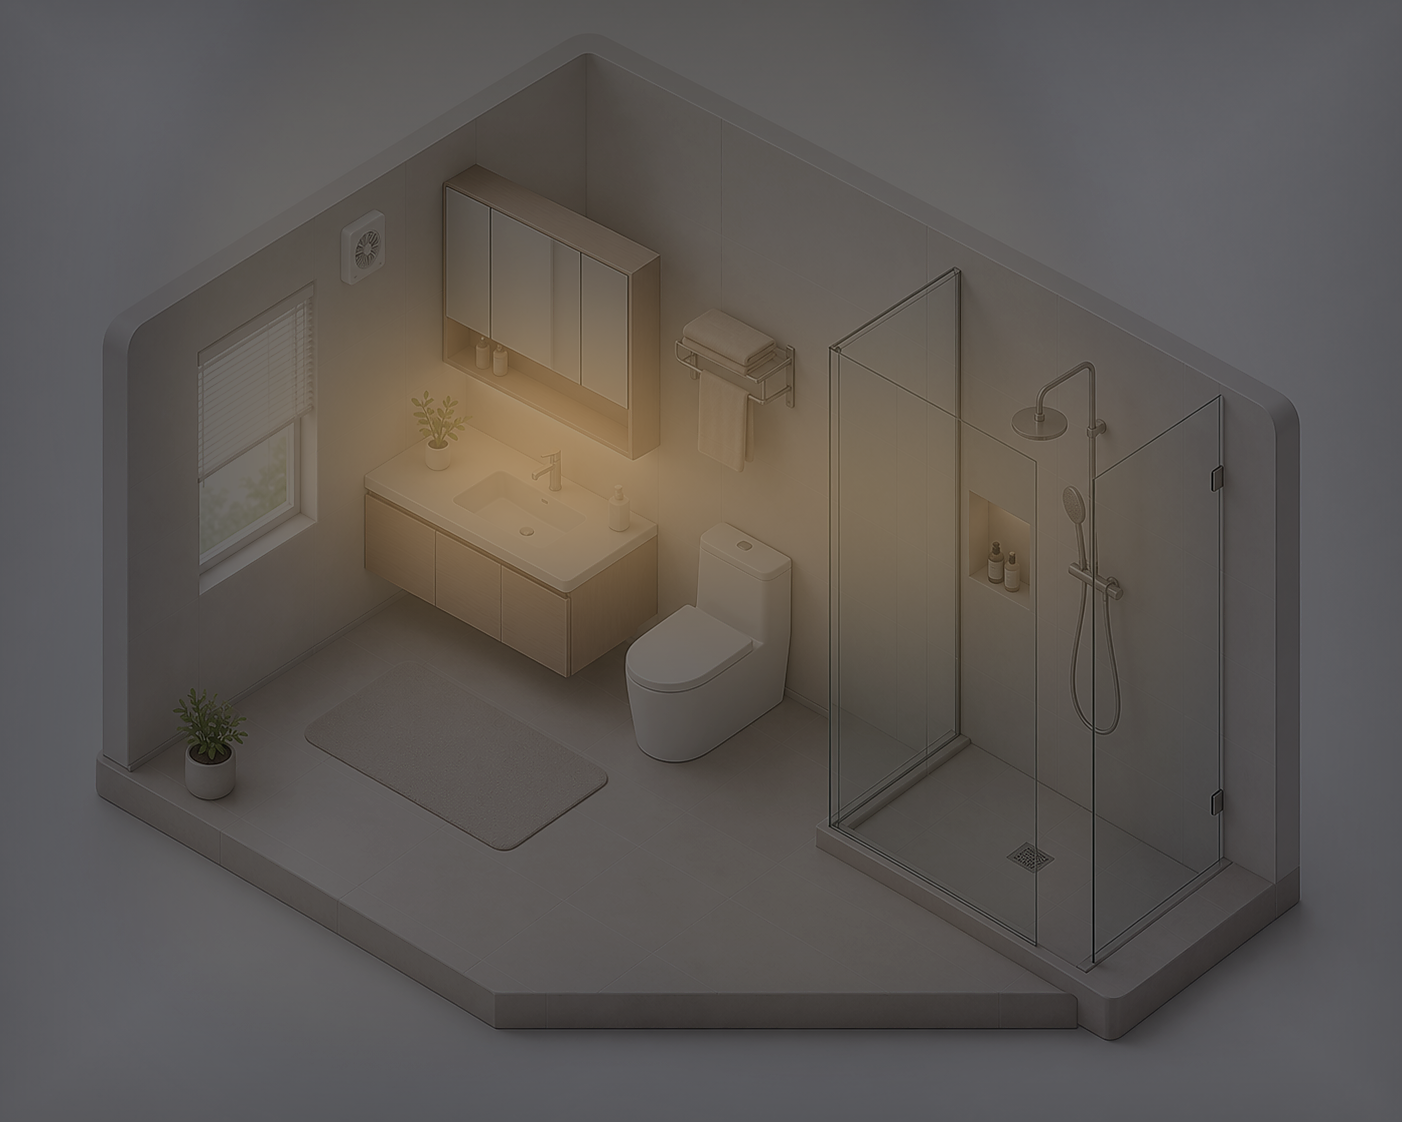
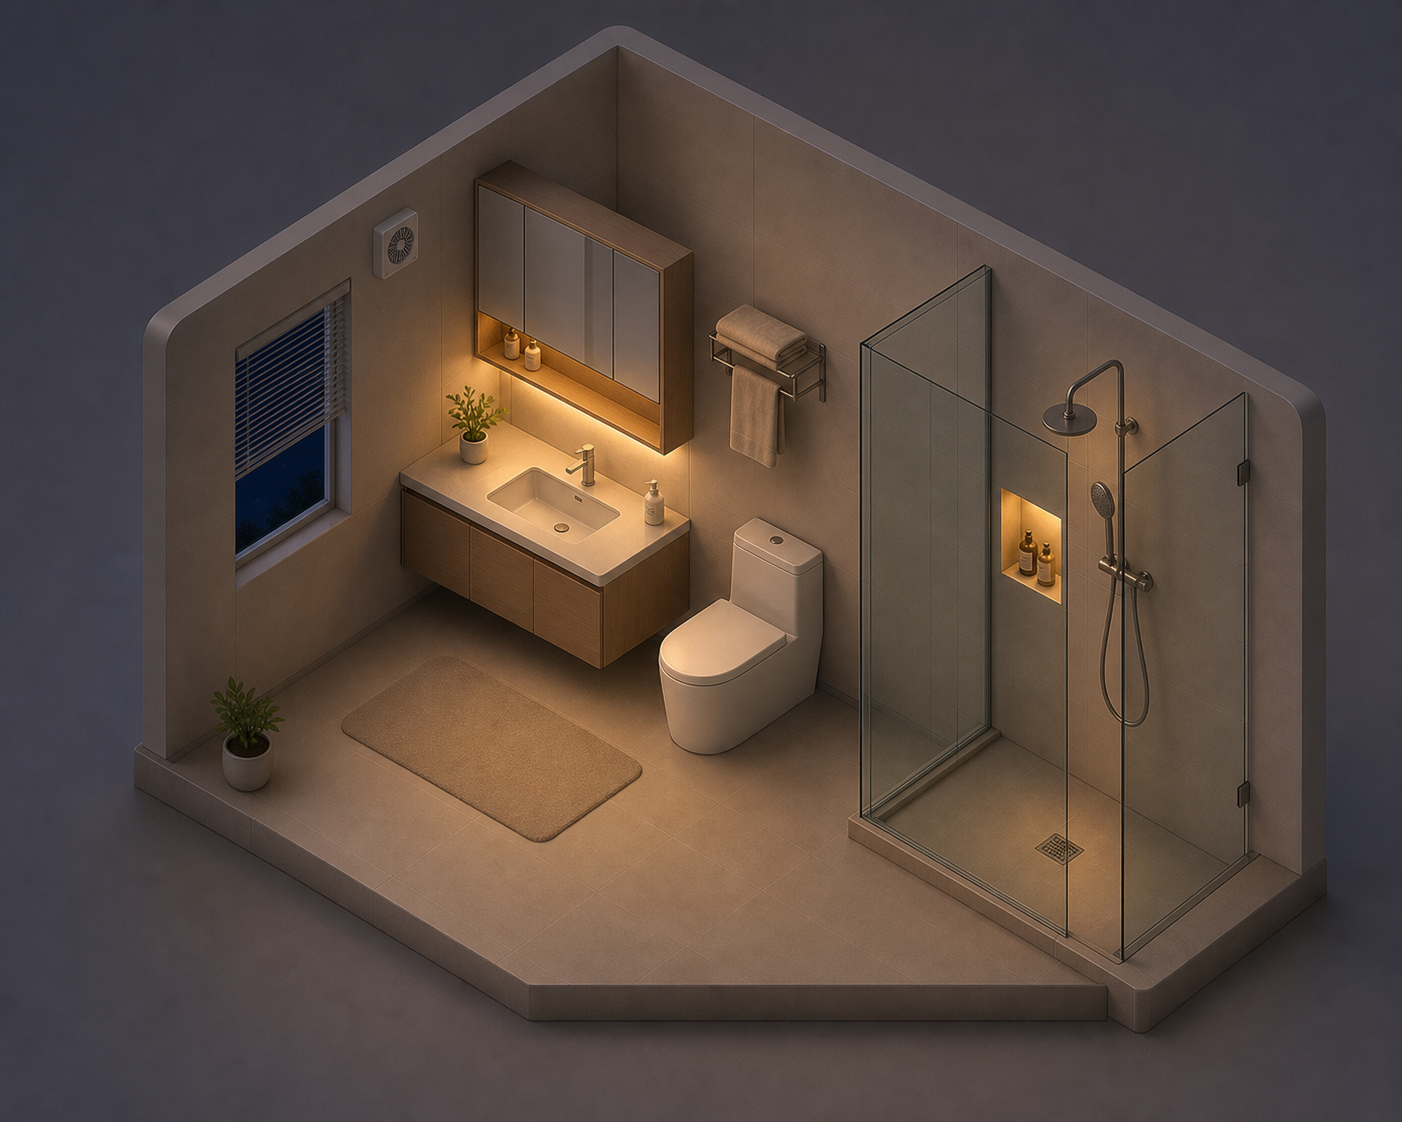
添加了新的2.5D图像

diff --git a/docs/smart-home-ui-asset-prompt.md b/docs/smart-home-ui-asset-prompt.md
@@ -1,0 +1,238 @@
+# Smart Home UI Asset Prompt
+
+This document is the shared visual prompt specification for SmartHome room and device images.
+Use it as the base prompt for living room, bedroom, kitchen, bathroom, balcony, curtains, and device assets.
+
+## Global Style
+
+Tencent Marvis style, minimalist, abstract, 2.5D isometric smart home interior, modern smart home, Scandinavian minimalism, rounded geometry, low-saturation warm white palette, soft wood material, clean negative space, UI asset, app homepage asset, product design illustration rather than architectural rendering, soft skeuomorphism, Apple Human Interface inspired, no people, no text, no labels, no logo, pure background, suitable for overlaying interactive hotspots.
+
+English core prompt:
+
+```text
+Minimal abstract isometric smart home interior, Tencent Marvis style, Apple Human Interface inspired, soft beige palette, rounded geometry, clean Scandinavian furniture, orthographic 45-degree isometric camera, simplified 3D shapes, low-poly but premium, soft ambient lighting, smooth matte materials, UI illustration, high-end smart home dashboard asset, consistent room layout, no people, no text, no labels, no logo, no decorations, no photorealism, designed for interactive smart home application.
+```
+
+## Fixed Camera
+
+```text
+45-degree isometric view.
+Orthographic camera.
+Fixed camera.
+Fixed focal length.
+Fixed layout.
+All variants must keep exactly the same image composition.
+Only time of day and lighting are allowed to change.
+Do not move, add, remove, resize, rotate, or restyle any furniture.
+```
+
+## Rendering Requirements
+
+```text
+Ultra clean.
+Minimal.
+Modern.
+Soft shadow.
+Soft global illumination.
+Smooth surface.
+Rounded edge.
+Low contrast.
+Soft ambient occlusion.
+Simple material.
+No texture noise.
+No photorealistic detail.
+High-end app UI illustration.
+3D icon style.
+Premium smart home dashboard.
+High resolution.
+```
+
+## Room Layouts
+
+Living room:
+
+```text
+Open modern living room.
+L-shaped sofa.
+Coffee table.
+TV.
+TV cabinet.
+Wall-mounted air conditioner.
+Window.
+Double-layer curtains.
+Air purifier.
+Robot vacuum.
+Green plants.
+Side cabinet.
+Floor plant.
+Rug.
+Keep all furniture in fixed positions.
+```
+
+Bedroom:
+
+```text
+Modern minimalist bedroom.
+Double bed.
+Bedside table.
+Wardrobe.
+Wall-mounted air conditioner.
+Large window.
+Double-layer curtains.
+Robot vacuum.
+Side cabinet.
+Green plants.
+Bedside lamp.
+Hidden LED light strip.
+Rug.
+Keep all furniture in fixed positions.
+```
+
+Kitchen:
+
+```text
+Modern minimalist kitchen.
+L-shaped counter.
+Sink.
+Stove.
+Range hood.
+Refrigerator.
+Kitchen island or small dining island.
+Simple dining stools.
+Small green plants.
+Soft wood cabinet fronts.
+Keep all furniture and appliances in fixed positions.
+```
+
+Bathroom:
+
+```text
+Modern minimalist bathroom.
+Vanity.
+Mirror cabinet.
+Toilet.
+Glass shower enclosure.
+Shower head.
+Small window.
+Bath mat.
+Small green plant.
+Rounded beige and soft wood materials.
+Keep all furniture and fixtures in fixed positions.
+```
+
+Balcony:
+
+```text
+Modern minimalist balcony laundry area.
+Washer.
+Storage cabinet.
+Small folding table or lounge chair.
+Indoor plants.
+Large window or open balcony glazing.
+Soft wood cabinet.
+Clean floor.
+Keep all furniture and appliances in fixed positions.
+```
+
+## Lighting States
+
+Day OFF:
+
+```text
+Daytime outside the window.
+Natural sunlight.
+All indoor lights off.
+Bedside lamps off.
+LED light strips off.
+All warm lights off.
+Only natural daylight.
+Overall cool white.
+Soft shadows.
+```
+
+Day ON:
+
+```text
+Daytime outside the window.
+Natural sunlight plus indoor lights on.
+Bedside lamps on.
+LED light strips on.
+Warm yellow indoor lighting.
+Mixed natural light and artificial light.
+Overall warmer than Day OFF.
+Keep all furniture positions unchanged.
+```
+
+Night OFF:
+
+```text
+Night scene outside the window.
+Deep blue night sky.
+All indoor lights off.
+Bedside lamps off.
+LED light strips off.
+Only very weak moonlight.
+Overall blue gray.
+Do not make it completely black.
+Furniture must remain clearly visible.
+Keep all furniture positions unchanged.
+```
+
+Night ON:
+
+```text
+Night scene outside the window.
+Warm yellow indoor lighting.
+Bedside lamps on where present.
+Hidden LED light strips on where present.
+Soft ambient light.
+Comfortable home atmosphere.
+Do not make it too bright.
+Keep the night feeling.
+Keep all furniture positions unchanged.
+```
+
+## Negative Prompt
+
+```text
+No people.
+No text.
+No labels.
+No logo.
+No watermark.
+No UI.
+No icons.
+No realistic architecture.
+No excessive decoration.
+No clutter.
+No messy objects.
+No ceiling lights.
+No camera perspective distortion.
+No dramatic lighting.
+No heavy texture.
+No glossy floor.
+No reflections.
+No strong shadows.
+No colorful furniture.
+No black furniture.
+No vintage style.
+No industrial style.
+No ornaments.
+No paintings with details.
+No photorealistic rendering.
+```
+
+## Edit Prompt Template
+
+Use this template when editing an existing room image into a new lighting state:
+
+```text
+Use case: lighting-weather
+Asset type: SmartHome app 2.5D room background
+Input image role: edit target. Preserve the exact room layout, object positions, camera angle, scale, crop, and composition.
+Primary request: Convert only the time of day and lighting to <STATE>.
+Style: Tencent Marvis style, minimal abstract isometric smart home interior, Apple Human Interface inspired, soft beige palette, rounded geometry, clean Scandinavian furniture, orthographic 45-degree isometric camera, simplified premium 3D UI illustration, smooth matte materials.
+Lighting: <STATE LIGHTING DESCRIPTION>.
+Constraints: keep all furniture, appliances, windows, walls, plants, floor shape, and empty clickable-space layout unchanged; do not add, remove, resize, rotate, or move any object; no text; no labels; no logo; no people; no UI controls; no photorealism.
+Avoid: excessive decoration, clutter, realistic architecture, dramatic lighting, heavy texture, glossy floor, reflections, strong shadows, colorful furniture, black furniture, vintage style, industrial style, ornaments, detailed paintings.
+```
